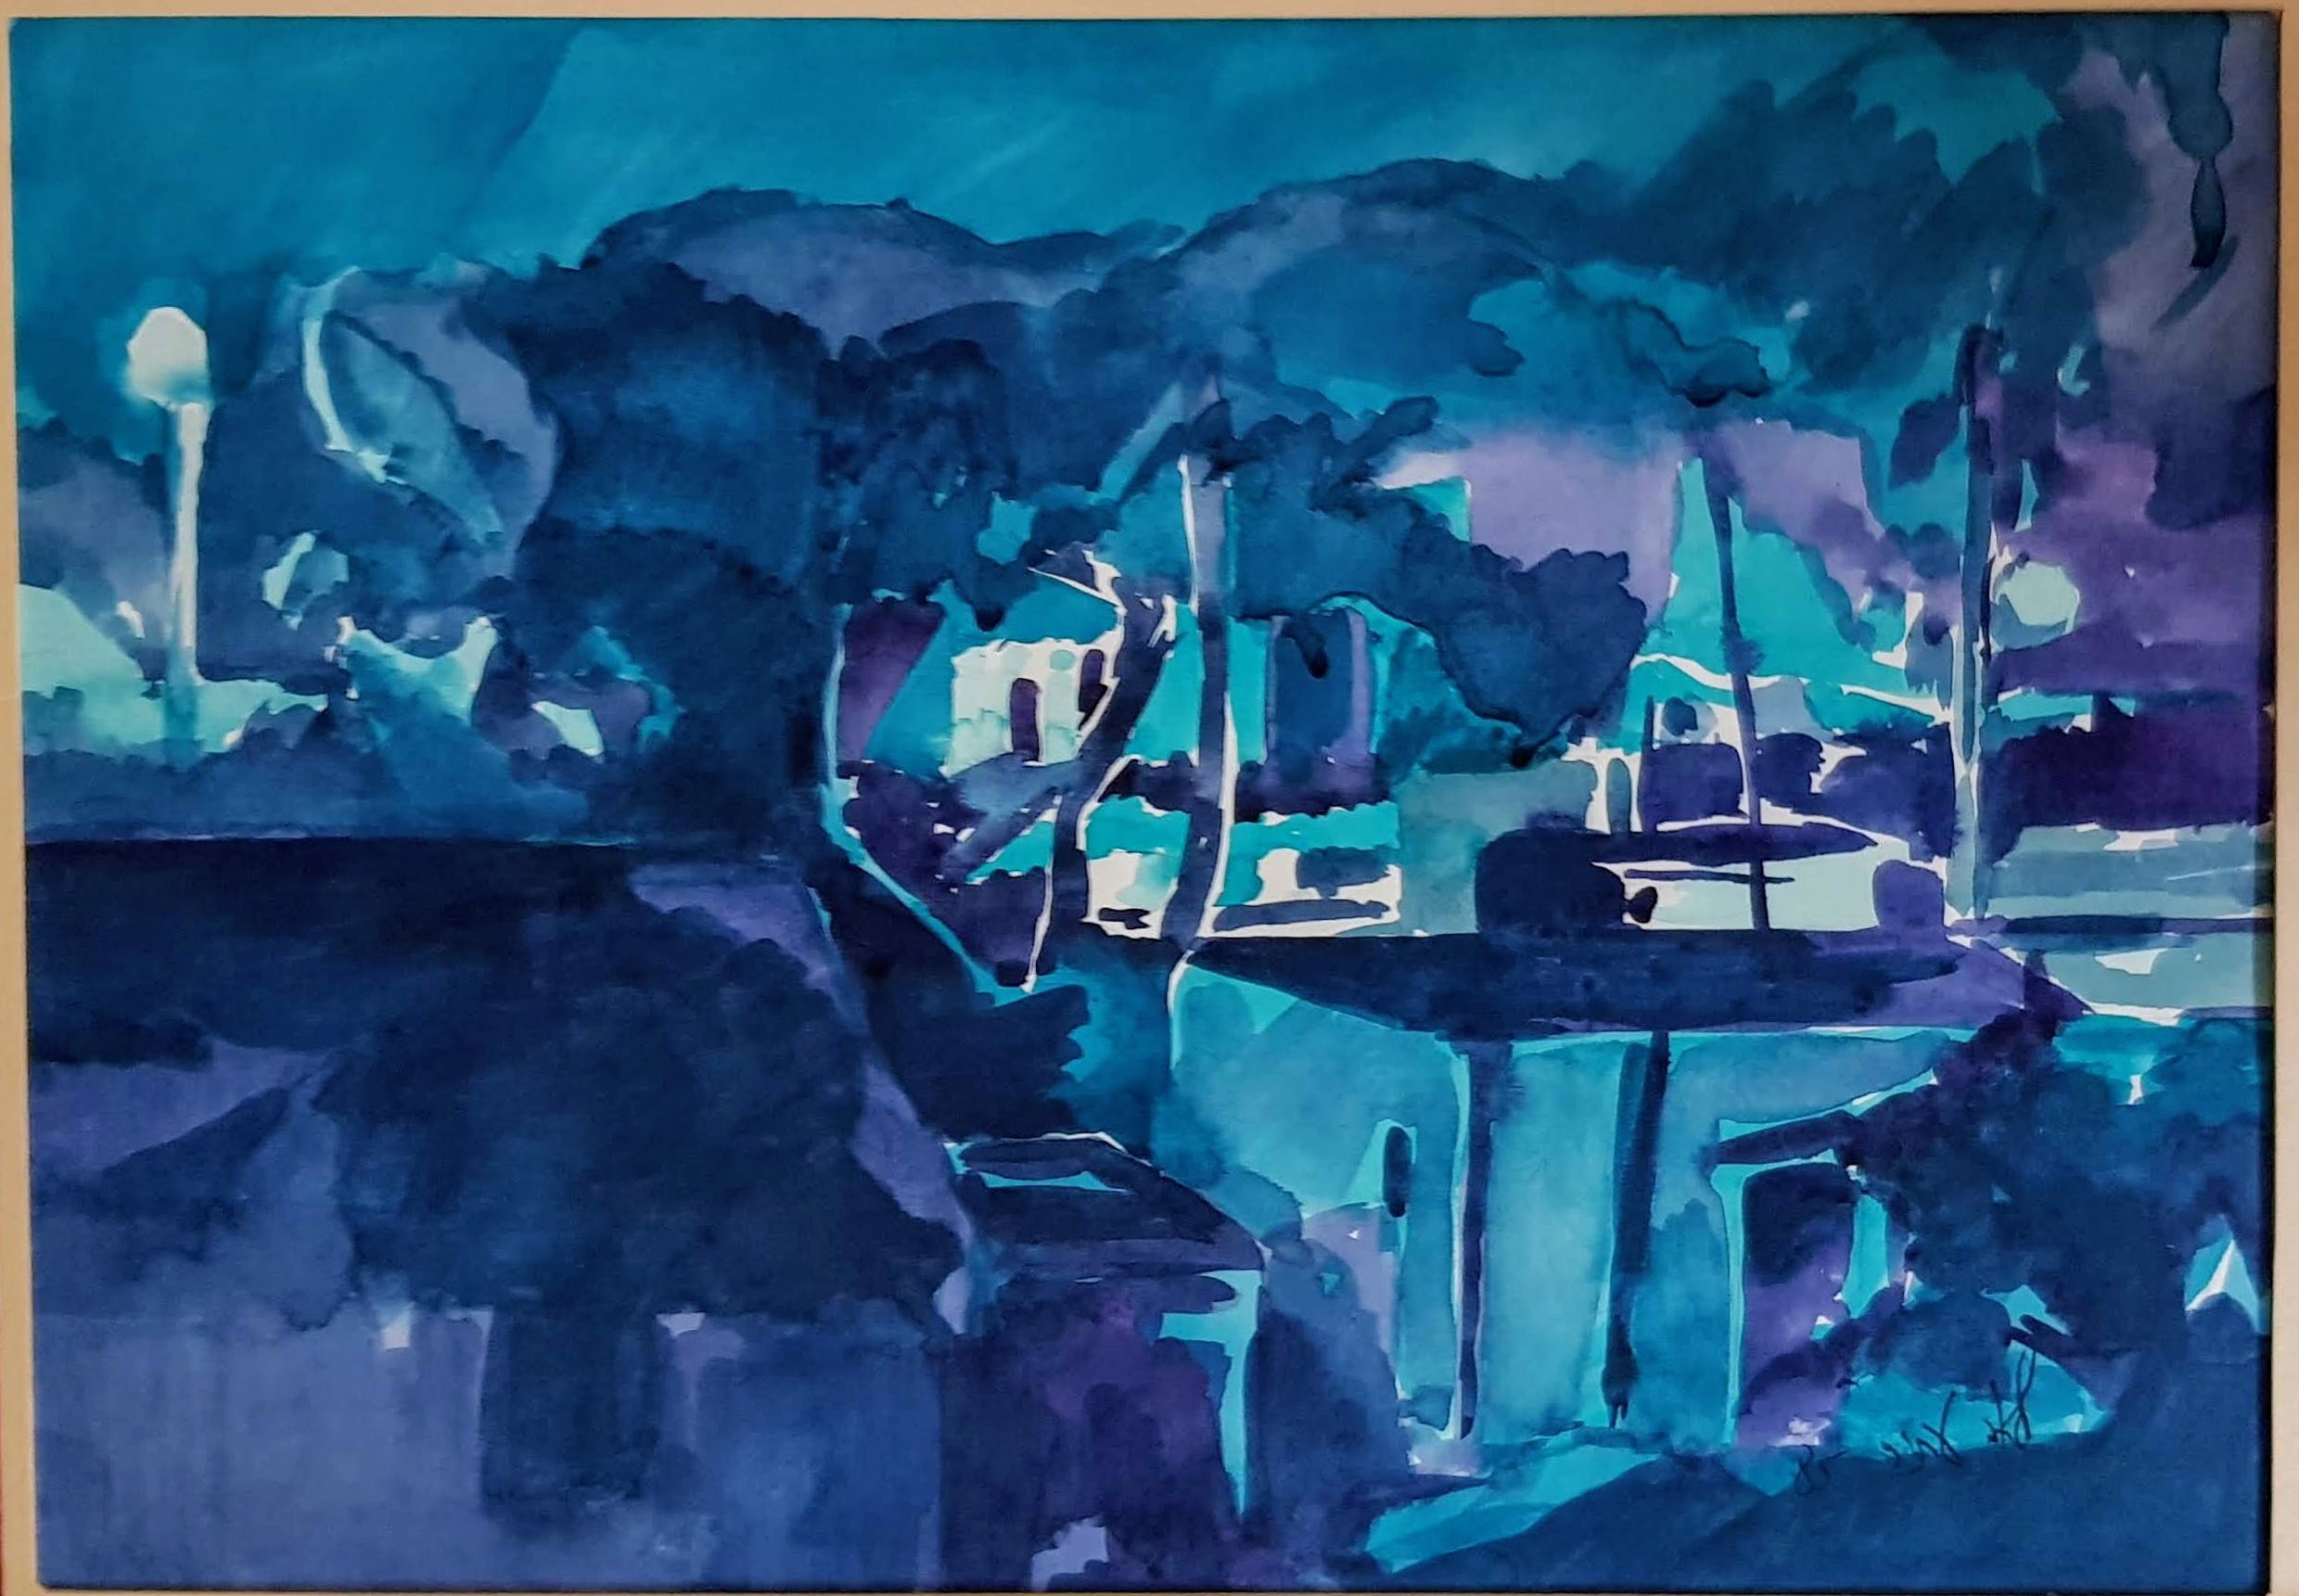
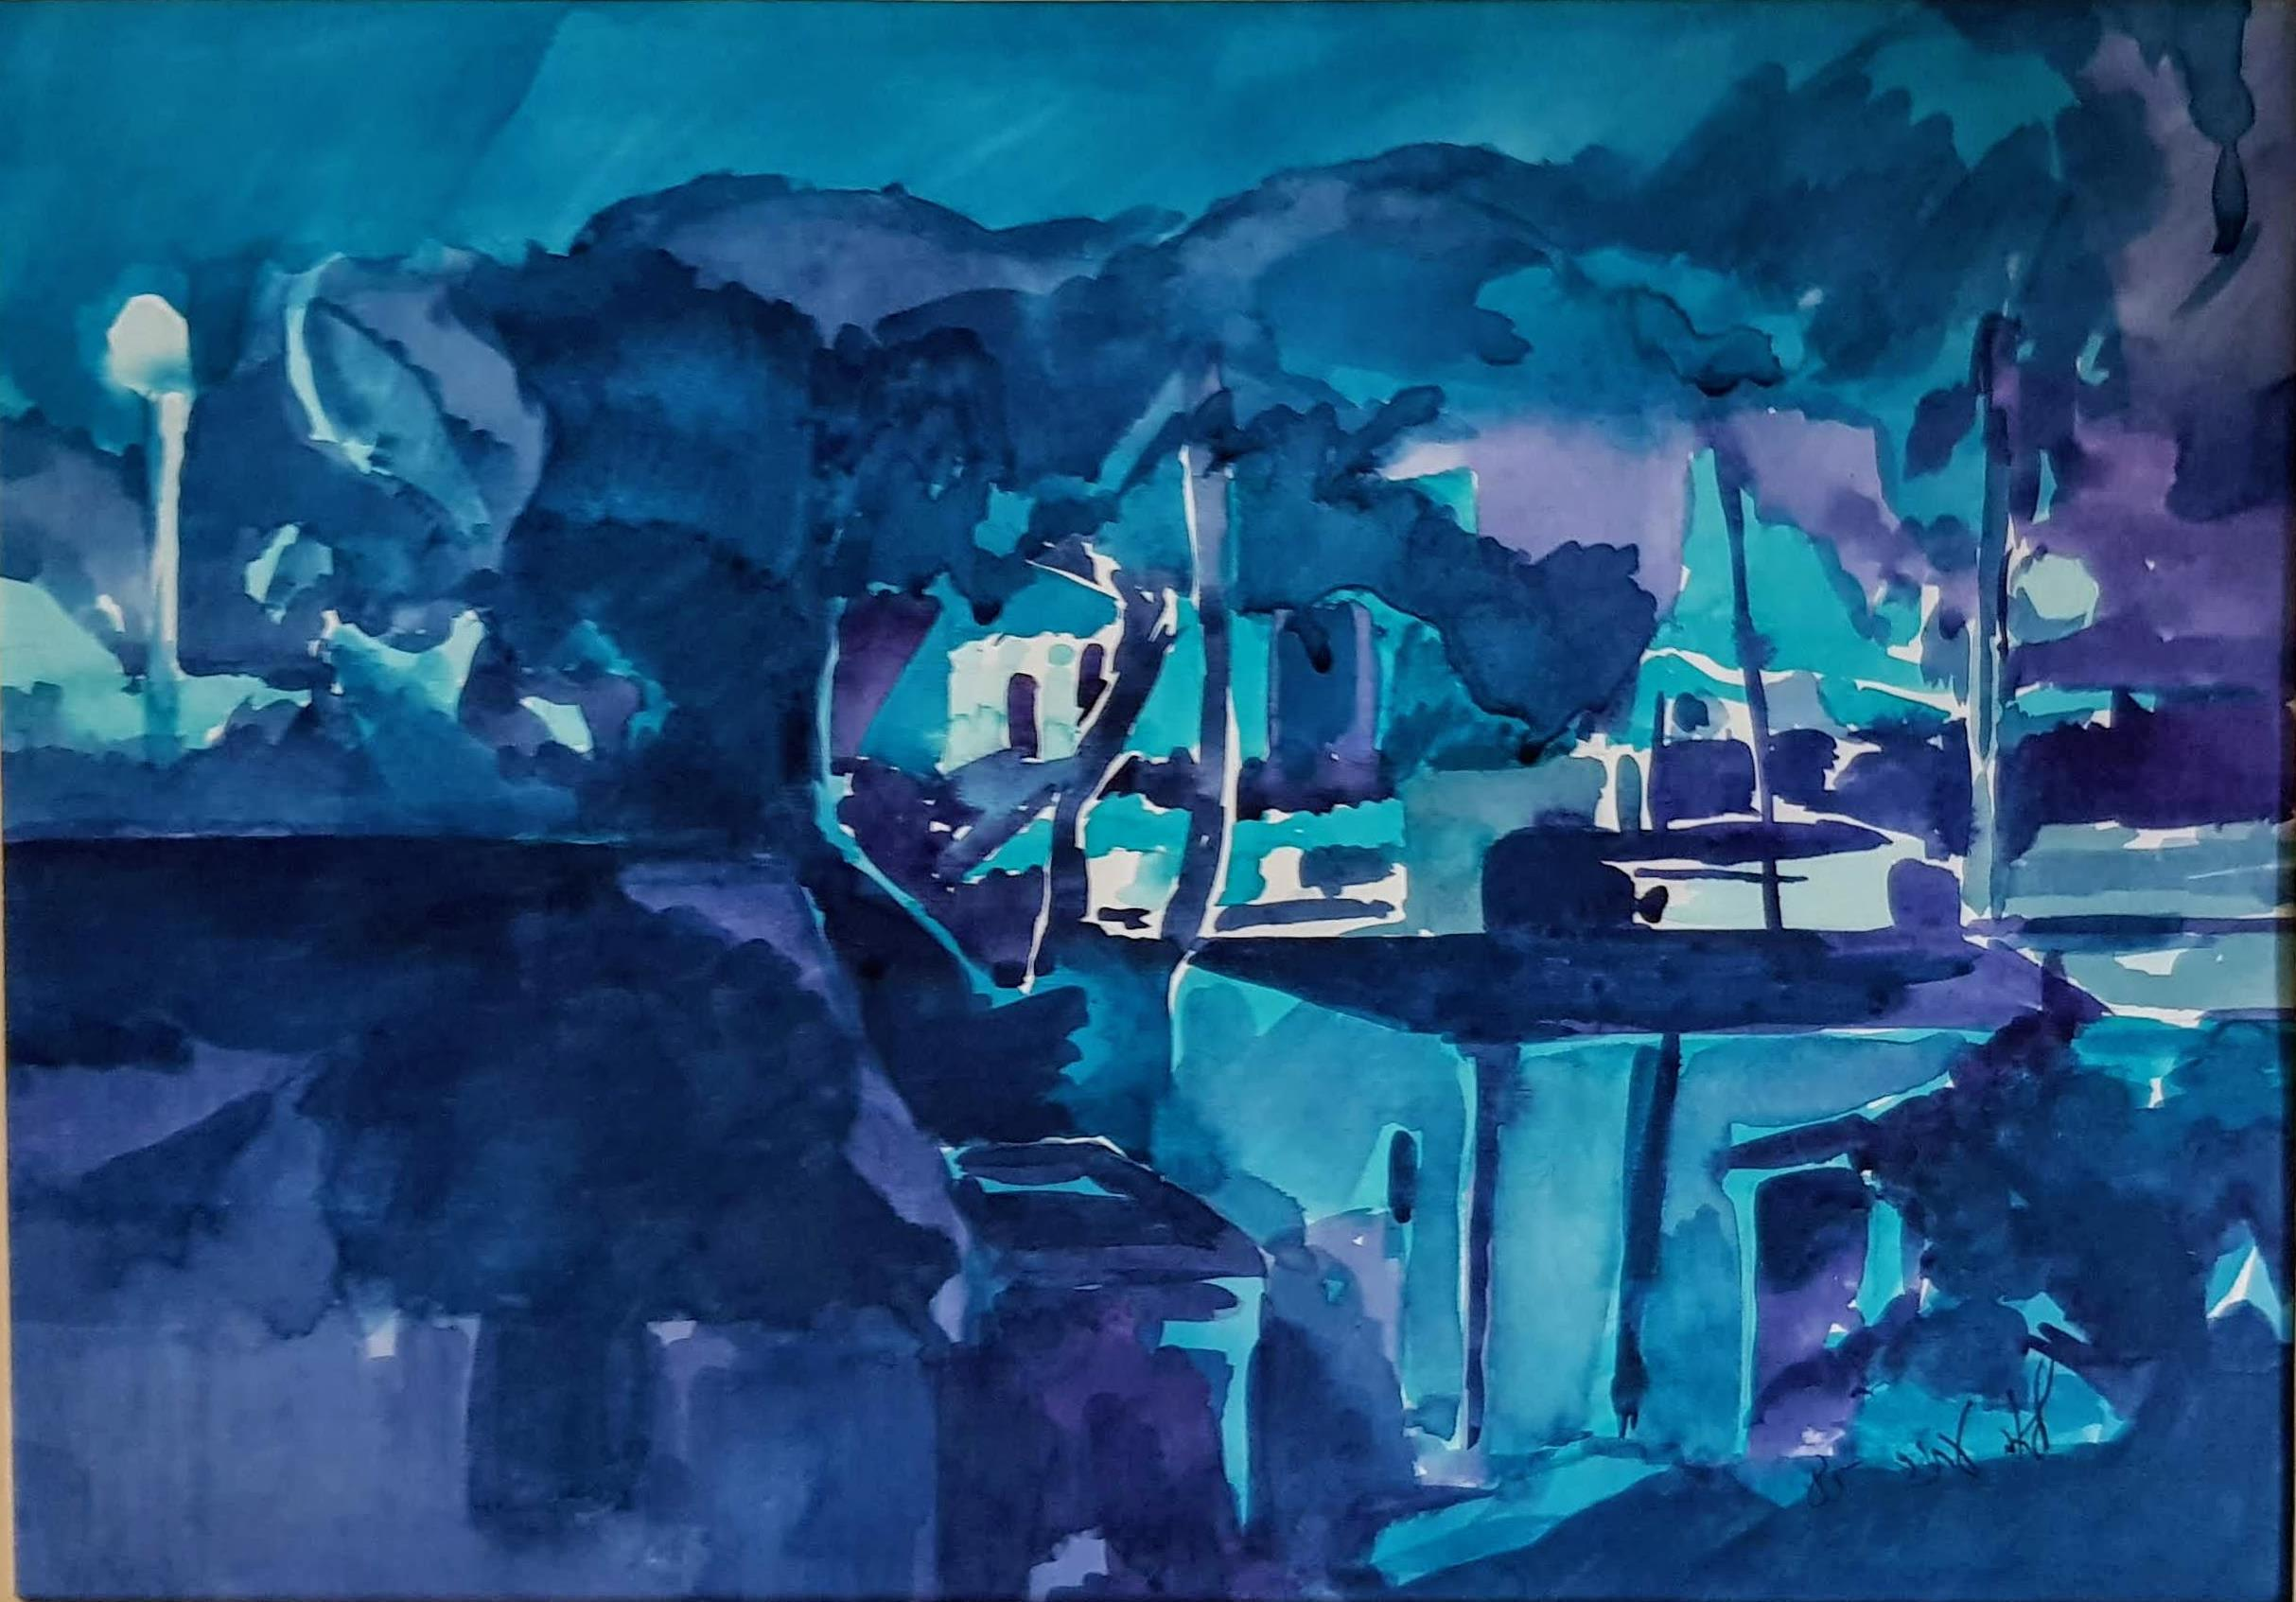
באקווארל תמונות

diff --git a/src/data/galleries.js b/src/data/galleries.js
@@ -1348,12 +1348,6 @@ export const galleries = [
         "orientation": "landscape"
       },
       {
-        "id": "gallery_5_20",
-        "url": "/galleries/באקוורל/באקוורל/אקוורל29.jpg",
-        "alt": "אקוורל29",
-        "orientation": "portrait"
-      },
-      {
         "id": "gallery_5_21",
         "url": "/galleries/באקוורל/באקוורל/אקוורל3.jpg",
         "alt": "אקוורל3",
@@ -1412,12 +1406,6 @@ export const galleries = [
         "url": "/galleries/באקוורל/באקוורל/באקוורל30.jpg",
         "alt": "באקוורל30",
         "orientation": "portrait"
-      },
-      {
-        "id": "gallery_5_31",
-        "url": "/galleries/באקוורל/באקוורל/באקוורל34.jpg",
-        "alt": "באקוורל34",
-        "orientation": "landscape"
       },
       {
         "id": "gallery_5_32",